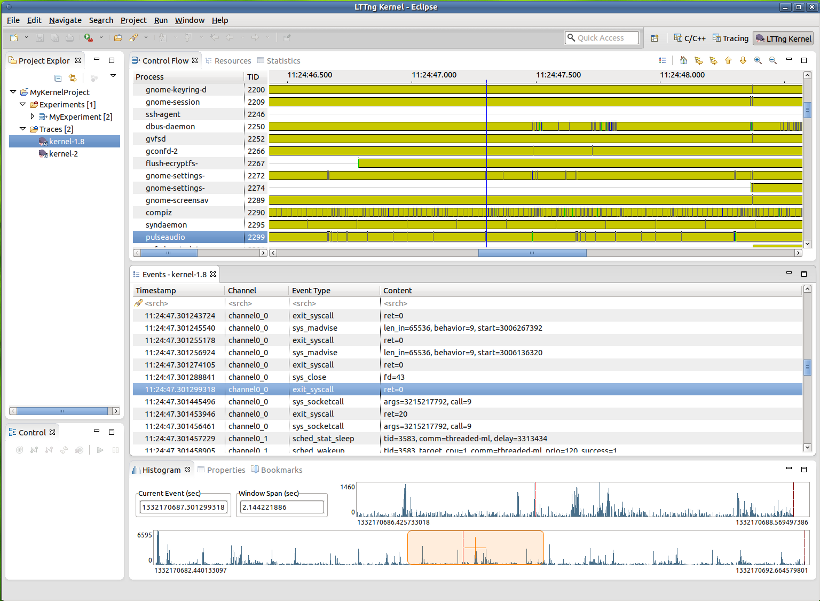
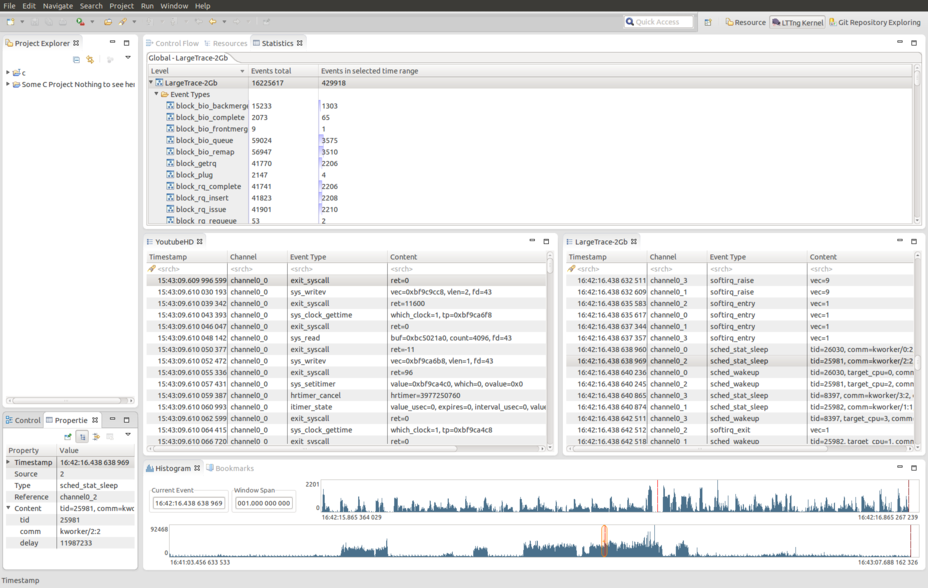
Update Documentation to better reflect branch
* Describe time stamp formatting
* Update descriptions of event views to editors
* Update images to reflect better timestamps
* Add description of events properties view
* Update Description of statistics view
* Recompress images

IP-Clean: Bernd Hufmann <bhufmann@gmail.com>

diff --git a/org.eclipse.linuxtools.lttng.help/doc/LTTng.html b/org.eclipse.linuxtools.lttng.help/doc/LTTng.html
@@ -40,7 +40,7 @@
 				<a href="LTTng.html#Project_View">Project View</a>
 			</li>
 			<li>
-				<a href="LTTng.html#Events_View">Events View</a>
+				<a href="LTTng.html#Events_Editor">Events Editor</a>
 			</li>
 			<li>
 				<a href="LTTng.html#Histogram_View">Histogram View</a>
@@ -226,7 +226,7 @@
 		<h3 id="Renaming_a_Trace_or_Experiment">Renaming a Trace or Experiment</h3>
 		<p>Traces and Experiment can be renamed from the 
 			<b>Project Explorer</b> view. To rename a trace or experiment select the relevant trace and click the right mouse button. Then select 
-			<b>Rename...</b> from the context sensitive menu. 
+			<b>Rename...</b> from the context sensitive menu. The trace or experiment needs to be closed in order to do this operation. 
 		</p>
 		<p>
 			<img border="0" src="images/RenameTraceAction.png"/>
@@ -272,7 +272,7 @@
 		<h3 id="Deleting_a_Trace_or_Experiment">Deleting a Trace or Experiment</h3>
 		<p>To delete a trace or experiment select the relevant trace or experiment in the 
 			<b>Project Explorer</b> view and click the right mouse button. Then select 
-			<b>Delete...</b> from the context sensitive menu.
+			<b>Delete...</b> from the context sensitive menu. The trace or experiment needs to be closed in order to do this operation. 
 		</p>
 		<p>
 			<img border="0" src="images/DeleteExperimentAction.png"/>
@@ -290,10 +290,11 @@
 		</p>
 		<h3 id="Deleting_Supplementary_Files">Deleting Supplementary Files</h3>
 		<p>Supplementary files are by definition trace specific files that accompany a trace. These file could be temporary files, persistent indexes or any other persistent data files created by the LTTng integration in Eclipse during parsing a trace. For the LTTng 2.0 trace viewer a persistent state history of the Linux Kernel is created and is stored under the name 
-			<b>stateHistroy.ht</b>.  
+			<b>stateHistory.ht</b>. The statistics for all traces are stored under 
+			<b>statistics.ht</b>. Other state systems may appear in the same folder as more custom views are added.
 		</p>
 		<p>All supplementary file are hidden from the user and are handled internally by the TMF. However, there is a possibility to delete the supplementary files so that there are recreated when opening a trace.</p>
-		<p>To delete all supplementary files from a single trace, select the relevant trace in the 
+		<p>To delete all supplementary files from a single trace, first, make sure the trace is not opened, then select the relevant trace in the 
 			<b>Project Explorer</b> view and click the right mouse button. Then select the 
 			<b>Delete Supplementary Files...</b> menu item from the context-sensitive menu.
 		</p>
@@ -308,7 +309,7 @@
 		</p>
 		<p>To delete all supplementary files from all traces of a experiment, select the relevant experiment in the 
 			<b>Project Explorer</b> view and click the right mouse button. In the context-sensitive menu select 
-			<b>Delete Supplementary Files...</b> menu item. 
+			<b>Delete Supplementary Files...</b> menu item. The experiment and included traces need to be closed in order to do this operation.
 		</p>
 		<p>A new dialog box will open with a list of supplementary files. Note that the supplementary files are prefixed with the trace name to indicate the trace they belong to. Select the file(s) to delete from the list and press 
 			<b>OK</b>. 
@@ -330,9 +331,11 @@
 		<p>Traces can be also be imported to a project by dragging from another tracing project and dropping to the project's trace folder. The trace will be copied and the trace type will be set.</p>
 		<p>Any resource can be dragged and dropped from a non-tracing project, and any file or folder can be dragged from an external tool, into a tracing project's trace folder. The resource will be copied or imported as a new trace, however the trace type will be unknown and need to be set manually by the user.</p>
 		<p>It is also possible to drop a trace, resource, file or folder into an existing experiment. If the item does not already exist as a trace in the project's trace folder, it will first be copied or imported, then the trace will be added to the experiment.</p>
-		<h2 id="Events_View">Events View</h2>
-		<p>The Events view shows the basic trace data in chronological order in a tabular format.</p>
-		<p>When opened, the Events view displays the events of the currently selected trace or experiment.</p>
+		<h2 id="Events_Editor">Events Editor</h2>
+		<p>The Events editor shows the basic trace data elements (events) in a tabular format. The editors can be dragged in the editor area so that several traces may be shown side by side. These traces are synchronized by timestamp.</p>
+		<p>
+			<img border="0" src="images/LTTng2EventsEditor.png"/>
+		</p>
 		<p>The header displays the current trace (or experiment) name. </p>
 		<p>Being part of the 
 			<b>Tracing and Monitoring</b> Framework, the default table displays the following fields:  
@@ -355,12 +358,13 @@
 			</li>
 		</ul>
 		<p>The first row of the table is the header row a.k.a. the Search and Filter row.</p>
-		<p>
-			<img border="0" src="images/DefaultEventsView.png"/>
-		</p>
 		<p>The highlighted event is the 
-			<i>current event</i> and is synchronized with the other views. If you select another event, the other views will be synchronized accordingly.
+			<i>current event</i> and is synchronized with the other views. If you select another event, the other views will be updated accordingly. The properties view will display a more detailed view of the selected event.
 		</p>
+		<p>
+			<img border="0" src="images/LTTng2EventProperties.png"/>
+		</p>
+		<p>The Events editor can be closed, disposing a trace. When this is done, all the views displaying the information will be updated with the trace data of the next event editor tab. If all the editor tabs are closed, then the views will display their empty states.</p>
 		<h3 id="Searching_and_Filtering">Searching and Filtering</h3>
 		<p>Searching and filtering of events in the table can be performed by entering matching conditions in one or multiple columns in the header row (the first row below the column header).</p>
 		<p>To toggle between searching and filtering, click on the 'search' (
@@ -463,14 +467,16 @@
 			</li>
 		</ul>
 		<h2 id="Statistics_View">Statistics View</h2>
-		<p>The Statistics View displays the various event counters that are collected when analyzing a trace. The data is organized per trace. To open the Statistics View, select Windows -&gt; Show View -&gt; Other... -&gt; Tracing -&gt; Statistics. A new view will open with the name Statistics. This view shows 2 columns: 
-			<i>Level</i> and 
-			<i>Number of Events</i>. After parsing a trace the view will display the number of events per event type. The cells where the number of events are printed also contain a colored bar that indicates the percentage of the event count in relation to the total number of events. The statistics is collected for the whole trace. This view is part of the 
+		<p>The Statistics View displays the various event counters that are collected when analyzing a trace. The data is organized per trace. To open the Statistics View, select Windows -&gt; Show View -&gt; Other... -&gt; Tracing -&gt; Statistics. A new view will open with the name Statistics. This view shows 3 columns: 
+			<i>Level</i> 
+			<i>Events total</i> and 
+			<i>Events in selected time range</i>. After parsing a trace the view will display the number of events per event type in the second column and in the third, the currently selected time range's event type distribution is shown. The cells where the number of events are printed also contain a colored bar that indicates the percentage of the event count in relation to the total number of events. The statistics is collected for the whole trace. This view is part of the 
 			<b>Tracing and Monitoring Framework (TMF)</b> and is generic. It will work for any trace type extensions. For the LTTng 2.0 integration the Statistics view will display statistics as shown below.:
 		</p>
 		<p>
 			<img border="0" src="images/LTTng2StatisticsView.png"/>
 		</p>
+		<p>By default, the statistics use a state system, therefore will load very quickly once the state system is written to the disk as a supplementary file.</p>
 		<h2 id="Colors_View">Colors View</h2>
 		<p>
 			<img border="0" src="images/ColorsView.png"/>
@@ -557,7 +563,7 @@
 		<p>A new feature of CTF traces is their ability to store user defined data that is not to be placed in an event. It is generally data that is per-trace specific, such as the tracer version and the trace domain. It will be populated when a trace is loaded if the trace has environment variables. 
 			<br/>
 
-			<img border="0" src="images/environment_variables.png"/>
+			<img border="0" src="images/LTTng2EnvironmentsView.png"/>
 			<br/>
 			The above picture shows a trace loaded that was collevcted with the 
 			<b>lttng-modules</b> version 
@@ -1049,7 +1055,7 @@
 		<p>To delete a remote host connection, select the host in the Control View and press the 
 			<b>Delete</b> button. Alternatively, press the right mouse button. A context-sensitive menu will show. Select the 
 			<b>Delete</b> button. For that command to be active the connection state has to be 
-			<b>DISCONNECTED</b>. 
+			<b>DISCONNECTED</b> and the trace has to be closed.
 		</p>
 		<p>
 			<img border="0" src="images/LTTng2ControlViewDelete.png"/>

diff --git a/org.eclipse.linuxtools.lttng.help/doc/Timestamp-formatting.html b/org.eclipse.linuxtools.lttng.help/doc/Timestamp-formatting.html
@@ -1,0 +1,99 @@
+<?xml version='1.0' encoding='utf-8' ?><!DOCTYPE html PUBLIC "-//W3C//DTD XHTML 1.0 Transitional//EN" "http://www.w3.org/TR/xhtml1/DTD/xhtml1-transitional.dtd">
+<html xmlns="http://www.w3.org/1999/xhtml">
+	<head>
+		<meta http-equiv="Content-Type" content="text/html; charset=utf-8"/>
+		<title>LTTng Plug-in User Guide - Timestamp formatting</title>
+		<link type="text/css" rel="stylesheet" href="book.css"/>
+	</head>
+	<body>
+		<table class="navigation" style="width: 100%;" border="0" summary="navigation">
+			<tr>
+				<th style="width: 100%" align="center" colspan="3">Timestamp formatting</th>
+			</tr>
+			<tr>
+				<td style="width: 20%" align="left">
+					<a href="LTTng-Kernel-Analysis.html" title="LTTng Kernel Analysis">
+						<img alt="Previous" border="0" src="images/prev.gif"/>
+					</a>
+				</td>
+				<td style="width: 60%" align="center"></td>
+				<td style="width: 20%" align="right">
+					<a href="Limitations.html" title="Limitations">
+						<img alt="Next" border="0" src="images/next.gif"/>
+					</a>
+				</td>
+			</tr>
+			<tr>
+				<td style="width: 20%" align="left" valign="top">LTTng Kernel Analysis</td>
+				<td style="width: 60%" align="center"></td>
+				<td style="width: 20%" align="right" valign="top">Limitations</td>
+			</tr>
+		</table><hr/>
+		<h1 id="Timestamp_formatting">Timestamp formatting</h1>
+		<p>Most views that show timestamps are displayed in the same time format. The unified timestamp format can be changed in the Preferences page. To get to that page, click on 
+			<b>Window</b> -&gt; 
+			<b>Preferences</b> -&gt; 
+			<b>Tracing</b> -&gt; 
+			<b>Time Format</b>. Then a window will show the time format preferences. 
+		</p>
+		<p>
+			<img border="0" src="images/TmfTimestampFormatPage.png"/>
+		</p>
+		<p>The preference page has several subsections:</p>
+		<ul>
+			<li>
+				<b>Current Format</b> a format string generated by the page
+			</li>
+			<li>
+				<b>Sample Display</b> an example of a timestamp formatted with the 
+				<b>Current Format</b> string.
+			</li>
+			<li>
+				<b>Data and Time format</b> how to format the date (days/months/years) and the time (hours/minutes/seconds)
+			</li>
+			<li>
+				<b>Sub-second format</b> how much precision is shown for the sub-second units
+			</li>
+			<li>
+				<b>Date delimiter</b> the character used to delimit the date units such as months and years
+			</li>
+			<li>
+				<b>Time delimiter</b> the character to separate super-second time units such as seconds and minutes
+			</li>
+			<li>
+				<b>Sub-Second Delimiter</b> the character to separate the sub-second groups such as milliseconds and nanoseconds
+			</li>
+			<li>
+				<b>Restore Defaults</b> restores the system settings
+			</li>
+			<li>
+				<b>Apply</b> apply changes
+			</li>
+		</ul>
+		<p>This will update all the displayed timestamps.</p><hr/>
+		<table class="navigation" style="width: 100%;" border="0" summary="navigation">
+			<tr>
+				<td style="width: 20%" align="left">
+					<a href="LTTng-Kernel-Analysis.html" title="LTTng Kernel Analysis">
+						<img alt="Previous" border="0" src="images/prev.gif"/>
+					</a>
+				</td>
+				<td style="width: 60%" align="center">
+					<a href="User-Guide.html" title="LTTng Plug-in User Guide">
+						<img alt="LTTng Plug-in User Guide" border="0" src="images/home.gif"/>
+					</a>
+				</td>
+				<td style="width: 20%" align="right">
+					<a href="Limitations.html" title="Limitations">
+						<img alt="Next" border="0" src="images/next.gif"/>
+					</a>
+				</td>
+			</tr>
+			<tr>
+				<td style="width: 20%" align="left" valign="top">LTTng Kernel Analysis</td>
+				<td style="width: 60%" align="center"></td>
+				<td style="width: 20%" align="right" valign="top">Limitations</td>
+			</tr>
+		</table>
+	</body>
+</html>

diff --git a/org.eclipse.linuxtools.lttng.help/doc/LTTng-Kernel-Analysis.html b/org.eclipse.linuxtools.lttng.help/doc/LTTng-Kernel-Analysis.html
@@ -18,7 +18,7 @@
 				</td>
 				<td style="width: 60%" align="center"></td>
 				<td style="width: 20%" align="right">
-					<a href="Limitations.html" title="Limitations">
+					<a href="Timestamp-formatting.html" title="Timestamp formatting">
 						<img alt="Next" border="0" src="images/next.gif"/>
 					</a>
 				</td>
@@ -26,7 +26,7 @@
 			<tr>
 				<td style="width: 20%" align="left" valign="top">LTTng</td>
 				<td style="width: 60%" align="center"></td>
-				<td style="width: 20%" align="right" valign="top">Limitations</td>
+				<td style="width: 20%" align="right" valign="top">Timestamp formatting</td>
 			</tr>
 		</table><hr/>
 		<h1 id="LTTng_Kernel_Analysis">LTTng Kernel Analysis</h1>
@@ -132,7 +132,7 @@
 		</ul>
 		<p>When the current time indicator is changed (when clicking in the states flow), all the other views are 
 			<b>synchronized</b>. For example, the 
-			<a href="LTTng-Kernel-Analysis.html#Events_View_2">Events View</a> will show the event matching the current time indicator. The reverse behaviour is also implemented: selecting an event within the Events View will update the Control Flow View current time indicator.
+			<a href="LTTng-Kernel-Analysis.html#LTTng_Kernel_Events_Editor">Events Editor</a> will show the event matching the current time indicator. The reverse behaviour is also implemented: selecting an event within the Events View will update the Control Flow View current time indicator.
 		</p>
 		<h4 id="Incomplete_regions">Incomplete regions</h4>
 		<p>You'll notice 
@@ -220,7 +220,7 @@
 		</p>
 		<p>This view is also synchronized with the others : 
 			<a href="LTTng.html#Histogram_View">histogram</a>, 
-			<a href="LTTng-Kernel-Analysis.html#Events_View_2">events view</a>, 
+			<a href="LTTng-Kernel-Analysis.html#LTTng_Kernel_Events_Editor">Events editor</a>, 
 			<a href="LTTng-Kernel-Analysis.html#Control_Flow_View">control flow view</a>, etc.
 		</p>
 		<h3 id="Navigation">Navigation</h3>
@@ -244,10 +244,10 @@
 				<a href="LTTng-Kernel-Analysis.html#Toolbar">Toolbar</a>
 			</b>.
 		</p>
-		<h2 id="Events_View_2">Events View</h2>
-		<p>The LTTng Kernel Events View 
+		<h2 id="LTTng_Kernel_Events_Editor">LTTng Kernel Events Editor</h2>
+		<p>The LTTng Kernel Events editor 
 			<b>is</b> the plain TMF 
-			<a href="LTTng.html#Events_View">Events Views</a> except that it provide its own specialized viewer to replace the standard one. In short, it has exactly the same behaviour but the layout is slightly different:
+			<a href="LTTng.html#Events_Editor">Events Editor</a>, except that it provides its own specialized viewer to replace the standard one. In short, it has exactly the same behaviour but the layout is slightly different:
 		</p>
 		<ul>
 			<li>
@@ -264,7 +264,7 @@
 			</li>
 		</ul>
 		<p>
-			<img border="0" src="images/LTTngKernelEventsViewer.png"/>
+			<img border="0" src="images/LTTng2EventsEditor.png"/>
 		</p><hr/>
 		<table class="navigation" style="width: 100%;" border="0" summary="navigation">
 			<tr>
@@ -279,7 +279,7 @@
 					</a>
 				</td>
 				<td style="width: 20%" align="right">
-					<a href="Limitations.html" title="Limitations">
+					<a href="Timestamp-formatting.html" title="Timestamp formatting">
 						<img alt="Next" border="0" src="images/next.gif"/>
 					</a>
 				</td>
@@ -287,7 +287,7 @@
 			<tr>
 				<td style="width: 20%" align="left" valign="top">LTTng</td>
 				<td style="width: 60%" align="center"></td>
-				<td style="width: 20%" align="right" valign="top">Limitations</td>
+				<td style="width: 20%" align="right" valign="top">Timestamp formatting</td>
 			</tr>
 		</table>
 	</body>

diff --git a/org.eclipse.linuxtools.lttng.help/doc/Limitations.html b/org.eclipse.linuxtools.lttng.help/doc/Limitations.html
@@ -12,7 +12,7 @@
 			</tr>
 			<tr>
 				<td style="width: 20%" align="left">
-					<a href="LTTng-Kernel-Analysis.html" title="LTTng Kernel Analysis">
+					<a href="Timestamp-formatting.html" title="Timestamp formatting">
 						<img alt="Previous" border="0" src="images/prev.gif"/>
 					</a>
 				</td>
@@ -24,17 +24,19 @@
 				</td>
 			</tr>
 			<tr>
-				<td style="width: 20%" align="left" valign="top">LTTng Kernel Analysis</td>
+				<td style="width: 20%" align="left" valign="top">Timestamp formatting</td>
 				<td style="width: 60%" align="center"></td>
 				<td style="width: 20%" align="right" valign="top">How to use LTTng to diagnose problems</td>
 			</tr>
 		</table><hr/>
 		<h1 id="Limitations">Limitations</h1>
-		<p>TBD</p><hr/>
+		<ul>
+			<li>When parsing text traces, the timestamps are assumed to be in the local time zone. This means that when combining it to CTF binary traces, there could be offsets by a few hours depending on where the traces were taken and where they were read.</li>
+		</ul><hr/>
 		<table class="navigation" style="width: 100%;" border="0" summary="navigation">
 			<tr>
 				<td style="width: 20%" align="left">
-					<a href="LTTng-Kernel-Analysis.html" title="LTTng Kernel Analysis">
+					<a href="Timestamp-formatting.html" title="Timestamp formatting">
 						<img alt="Previous" border="0" src="images/prev.gif"/>
 					</a>
 				</td>
@@ -50,7 +52,7 @@
 				</td>
 			</tr>
 			<tr>
-				<td style="width: 20%" align="left" valign="top">LTTng Kernel Analysis</td>
+				<td style="width: 20%" align="left" valign="top">Timestamp formatting</td>
 				<td style="width: 60%" align="center"></td>
 				<td style="width: 20%" align="right" valign="top">How to use LTTng to diagnose problems</td>
 			</tr>

diff --git a/org.eclipse.linuxtools.lttng.help/doc/Installation.html b/org.eclipse.linuxtools.lttng.help/doc/Installation.html
@@ -47,10 +47,6 @@
 		<p>The easiest way to install the LTTng plug-ins for Eclipse is through the Software Updates and Add-ons menu. For information on how to use this menu, refer to this 
 			<a href="http://wiki.eclipse.org/Linux_Tools_Project/PluginInstallHelp#Installing_Updates_From_the_Linux_Tools_Update_Site">link</a>.
 		</p>
-		<p>The legacy (
-			<i>Classic</i> :-)) Eclipse LTTng (v0.x) is also available as an optional download. Refer to 
-			<a href="http://wiki.eclipse.org/index.php/Linux_Tools_Project/LTTng/User_Guide">here</a> for installation and verification instructions.
-		</p>
 		<p>The LTTng plug-ins are structured as a stack of features/plug-ins as following:</p>
 		<ul>
 			<li>
